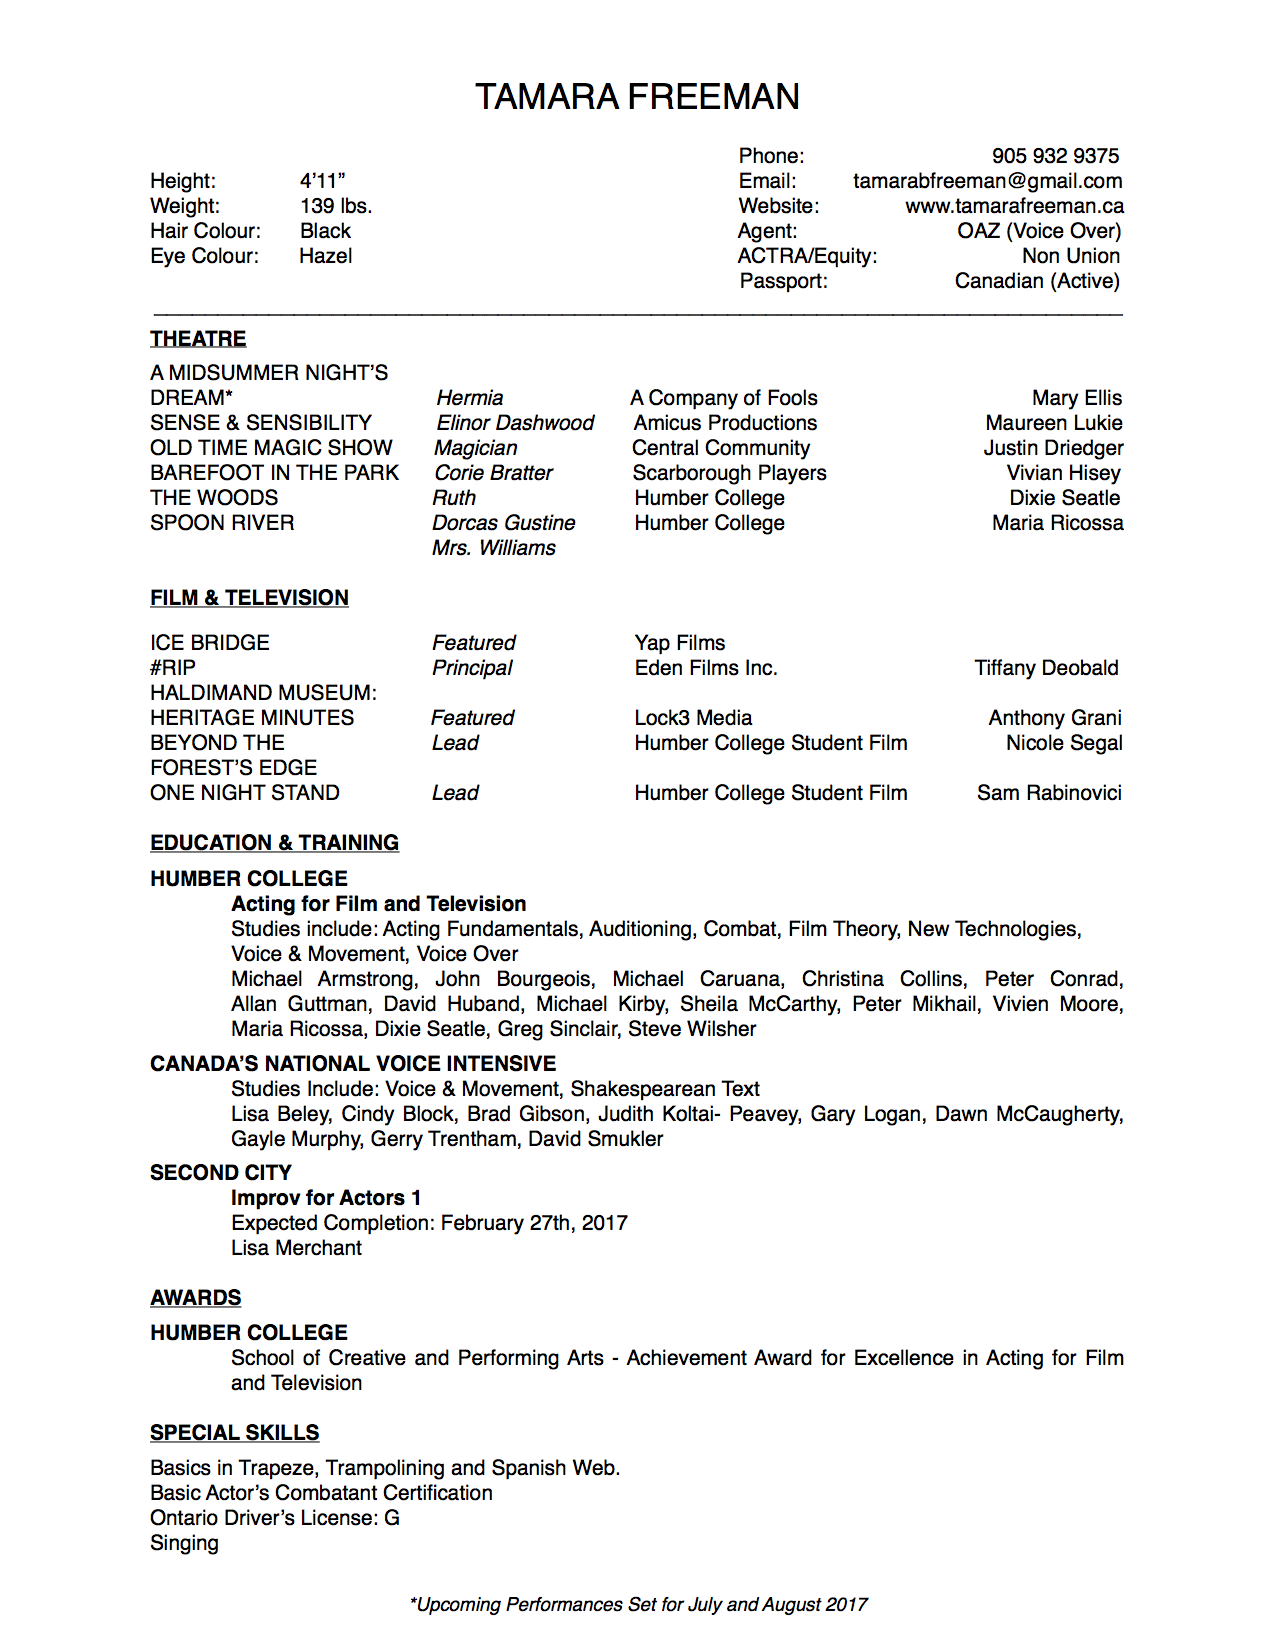
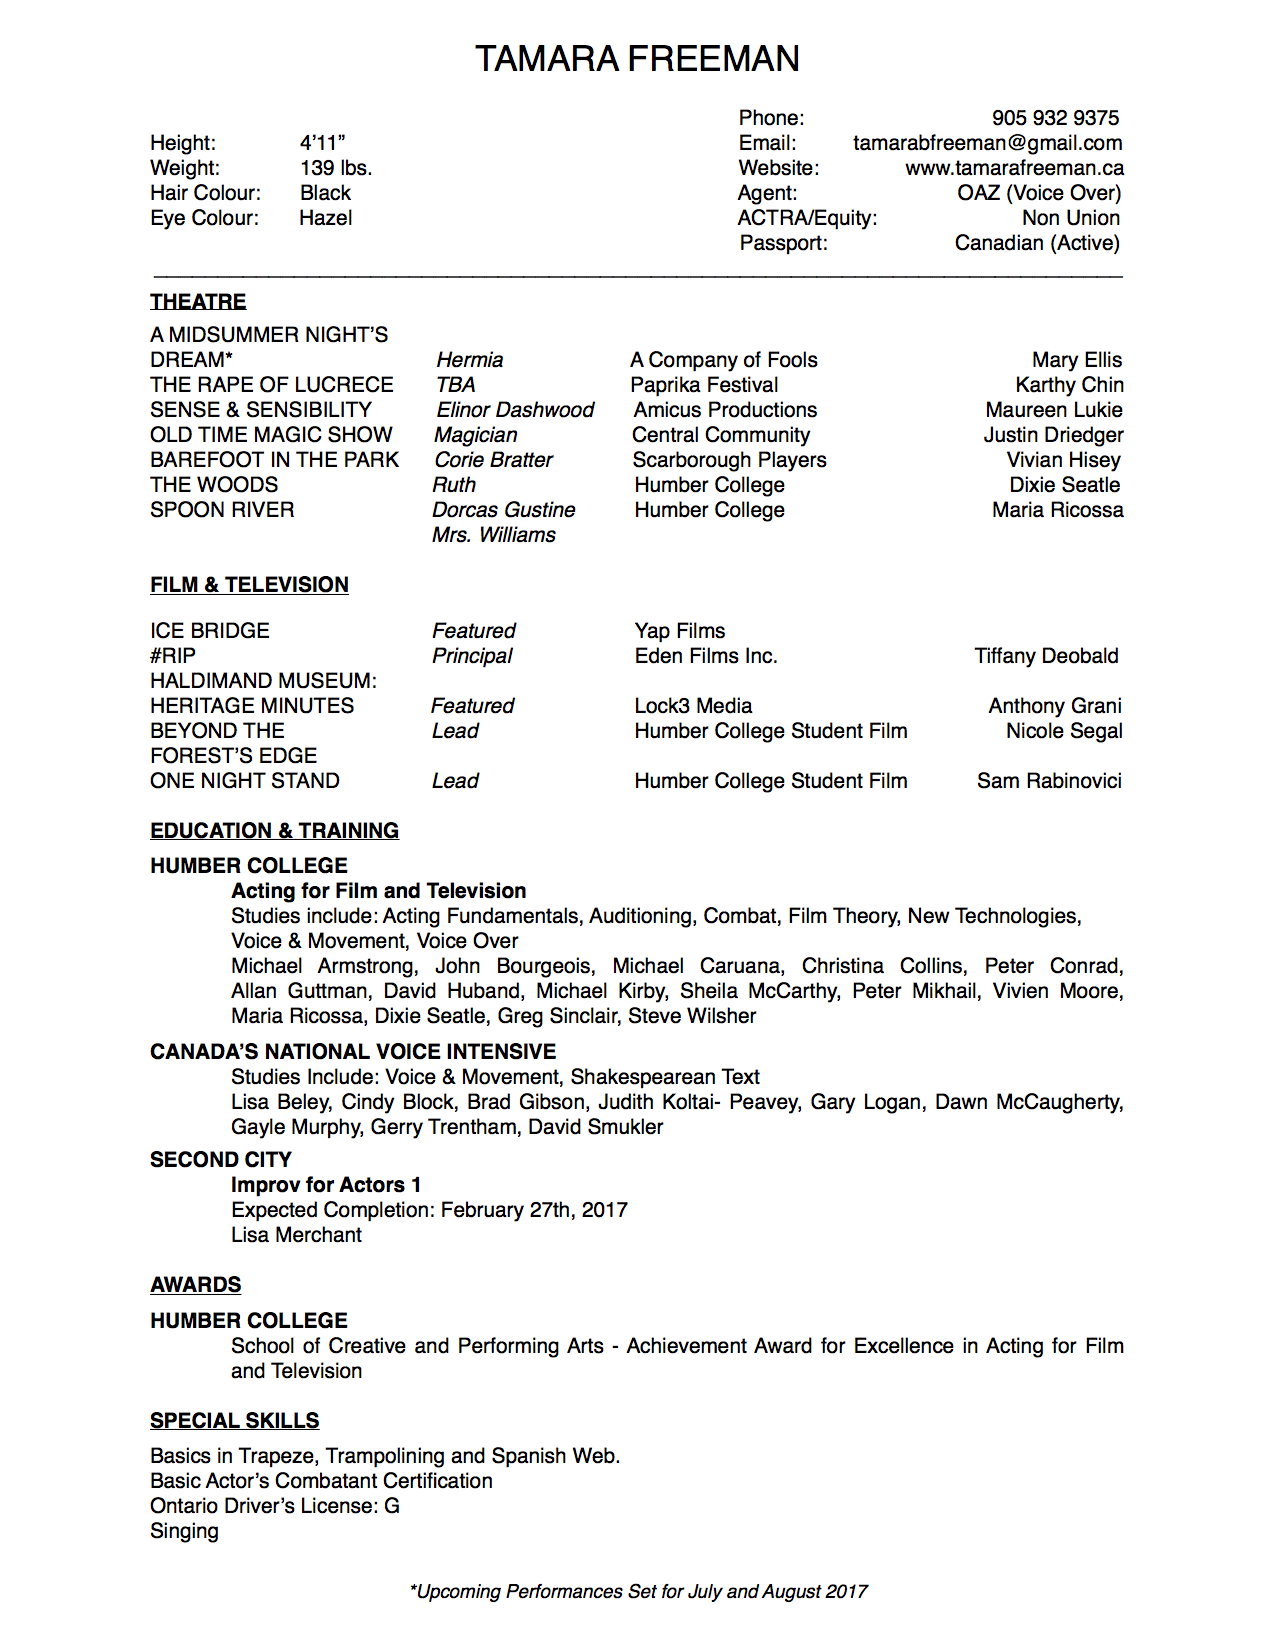
Added The Rape of Lucrece

diff --git a/upcoming.html b/upcoming.html
@@ -16,16 +16,15 @@ navorder: 5
 				A Company Of Fools<br>
 				<a href="http://fools.ca/">July 3 - August 19, 2017</a><br>
 			</p>
+			<h1 class="production">The Rape of Lucrece</h1>
+			<p>
+				Paprika Festival<br>
+				May 2017</a><br>
+			</p>
 			<h1 class="production">Ice Bridge</h1>
 			<p>
 				Yap Films<br>
 				February - March, 2017</a><br>
-			</p>
-			<h1 class="production">#RIP</h1>
-			<p>
-				Pokemon Catcher<br>
-				Eden Films Inc.<br>
-				February 2017<br>
 			</p>
 		</div>
 		<div class="headshot col-md-6 col-md-pull-6">
